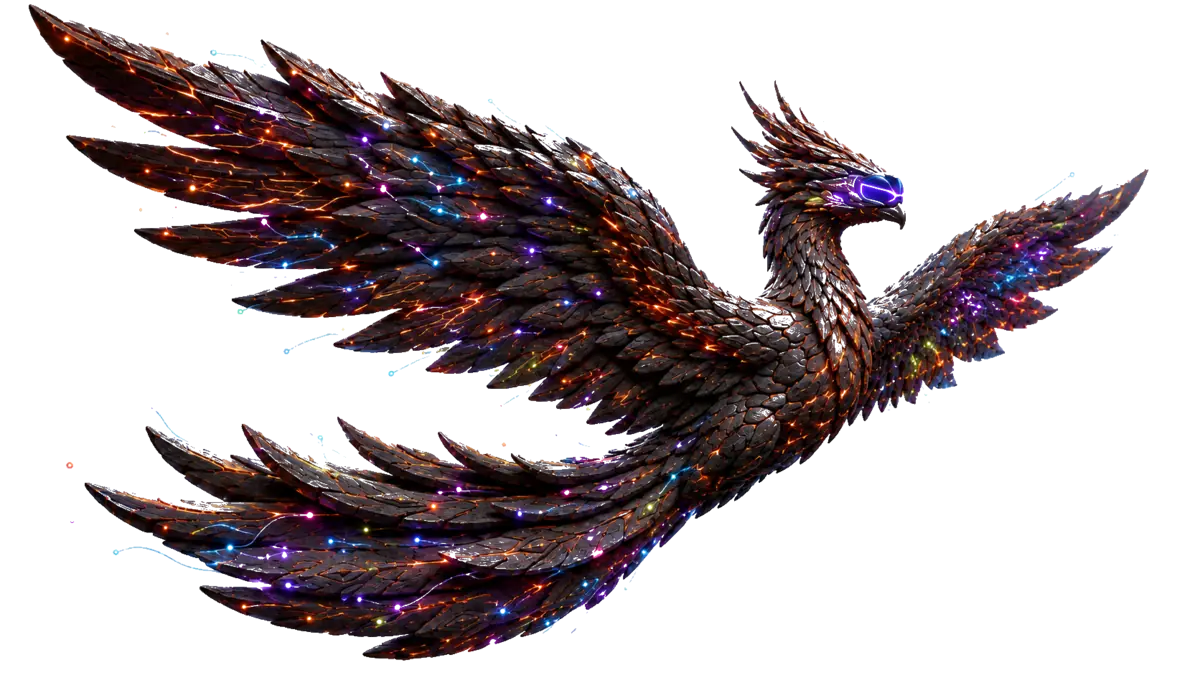
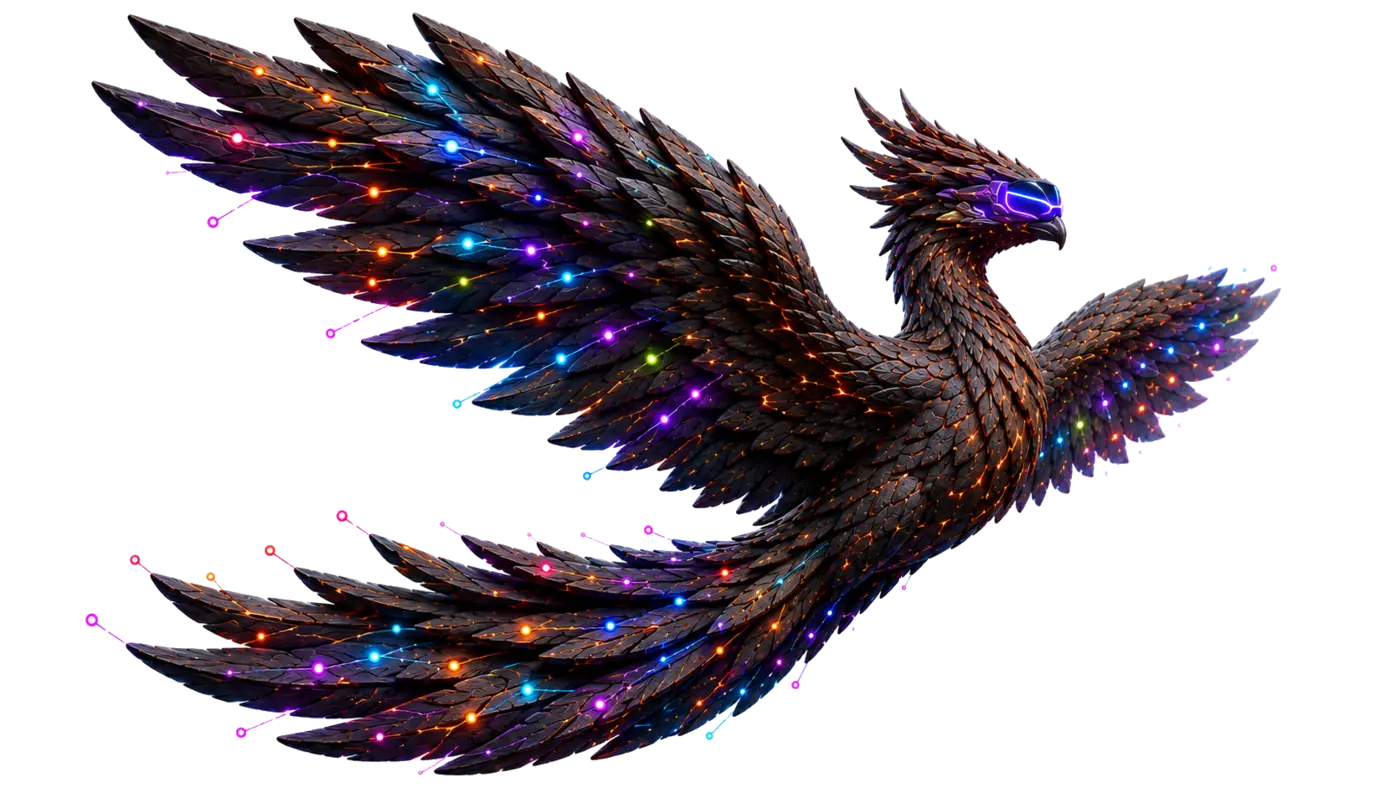
Refine phoenix artwork and add click-born signal bursts

diff --git a/src/App.tsx b/src/App.tsx
@@ -12,14 +12,14 @@ const powers=[
 function Reveal({children,className=''}:{children:React.ReactNode,className?:string}){const ref=useRef<HTMLDivElement>(null);useEffect(()=>{const el=ref.current;if(!el)return;const io=new IntersectionObserver(([entry])=>{if(entry.isIntersecting)el.classList.add('shown')},{threshold:.12});io.observe(el);return()=>io.disconnect()},[]);return <div ref={ref} className={`reveal ${className}`}>{children}</div>}
 function Phoenix({className='',variant='plain',priority=false}:{className?:string,variant?:string,priority?:boolean}){return <div className={`phoenix ${className} phoenix-${variant}`}><img src={variant==='vr'?'/ashes-phoenix-vr.webp':'/ashes-phoenix-hero.webp'} alt={variant==='vr'?'Ashes phoenix wearing a neon VR visor':'Ashes phoenix'} draggable={false} loading={priority?'eager':'lazy'} decoding="async" fetchPriority={priority?'high':'auto'}/></div>}
 function PowerPhoenix({mode}:{mode:string}){return <img className="power-phoenix" src={`/powers/${mode}.webp`} alt={`${mode} phoenix`} loading="lazy" decoding="async"/>}
-function SignalNetwork(){const canvasRef=useRef<HTMLCanvasElement>(null);useEffect(()=>{const canvas=canvasRef.current;if(!canvas)return;const context=canvas.getContext('2d',{alpha:true});if(!context)return;const colors=['#66ebf2','#ff62c7','#d8ff62','#ff875c','#ad77ff'];let width=0,height=0,frame=0,last=0,visible=true;const pointer={x:-9999,y:-9999};type Node={x:number,y:number,px:number,py:number,vx:number,vy:number,r:number,color:string,life:number,hot:boolean,curl:number};let nodes:Node[]=[];
-  const reset=(node?:Node)=>{const zone=Math.floor(Math.random()*4);let x:number,y:number,angle:number;if(zone===0){x=width*(.2+Math.random()*.31);y=height*(.17+Math.random()*.31);angle=Math.PI+(-.42+Math.random()*.84)}else if(zone===1){x=width*(.57+Math.random()*.25);y=height*(.22+Math.random()*.3);angle=-.42+Math.random()*.84}else if(zone===2){x=width*(.27+Math.random()*.3);y=height*(.56+Math.random()*.22);angle=Math.PI/2+(-.55+Math.random()*1.1)}else{x=width*(.46+Math.random()*.2);y=height*(.34+Math.random()*.25);angle=-.7+Math.random()*1.4}const speed=.78+Math.random()*1.2;const next={x,y,px:x,py:y,vx:Math.cos(angle)*speed,vy:Math.sin(angle)*speed,r:1+Math.random()*2.15,color:colors[Math.floor(Math.random()*colors.length)],life:.74+Math.random()*.26,hot:false,curl:(Math.random()-.5)*.018};if(node)Object.assign(node,next);else return next};
+function SignalNetwork(){const canvasRef=useRef<HTMLCanvasElement>(null);useEffect(()=>{const canvas=canvasRef.current;if(!canvas)return;const context=canvas.getContext('2d',{alpha:true});if(!context)return;const colors=['#66ebf2','#ff62c7','#d8ff62','#ff875c','#ad77ff'];let width=0,height=0,frame=0,last=0,visible=true;const pointer={x:-9999,y:-9999};type Node={x:number,y:number,px:number,py:number,vx:number,vy:number,r:number,color:string,life:number,hot:boolean,curl:number,burst:boolean};let nodes:Node[]=[];
+  const reset=(node?:Node)=>{const zone=Math.floor(Math.random()*4);let x:number,y:number,angle:number;if(zone===0){x=width*(.2+Math.random()*.31);y=height*(.17+Math.random()*.31);angle=Math.PI+(-.42+Math.random()*.84)}else if(zone===1){x=width*(.57+Math.random()*.25);y=height*(.22+Math.random()*.3);angle=-.42+Math.random()*.84}else if(zone===2){x=width*(.27+Math.random()*.3);y=height*(.56+Math.random()*.22);angle=Math.PI/2+(-.55+Math.random()*1.1)}else{x=width*(.46+Math.random()*.2);y=height*(.34+Math.random()*.25);angle=-.7+Math.random()*1.4}const speed=.78+Math.random()*1.2;const next={x,y,px:x,py:y,vx:Math.cos(angle)*speed,vy:Math.sin(angle)*speed,r:1+Math.random()*2.15,color:colors[Math.floor(Math.random()*colors.length)],life:.74+Math.random()*.26,hot:false,curl:(Math.random()-.5)*.018,burst:false};if(node)Object.assign(node,next);else return next};
   const resize=()=>{const rect=canvas.getBoundingClientRect();width=rect.width;height=rect.height;canvas.width=Math.round(width);canvas.height=Math.round(height);context.setTransform(1,0,0,1,0,0);nodes=Array.from({length:width<700?28:58},()=>reset() as Node)};resize();const observer=new ResizeObserver(resize);observer.observe(canvas);const visibility=new IntersectionObserver(([entry])=>{visible=entry.isIntersecting;if(visible&&!frame)frame=requestAnimationFrame(draw)},{rootMargin:'80px'});visibility.observe(canvas);
-  const move=(event:PointerEvent)=>{const rect=canvas.getBoundingClientRect();pointer.x=event.clientX-rect.left;pointer.y=event.clientY-rect.top};const leave=()=>{pointer.x=-9999;pointer.y=-9999};window.addEventListener('pointermove',move,{passive:true});window.addEventListener('pointerleave',leave);
-  function draw(time:number){if(!visible){frame=0;return}if(time-last<24){frame=requestAnimationFrame(draw);return}last=time;context.clearRect(0,0,width,height);for(const node of nodes){node.px=node.x;node.py=node.y;const oldVx=node.vx;node.vx-=node.vy*node.curl;node.vy+=oldVx*node.curl;node.x+=node.vx;node.y+=node.vy;node.life-=.003;const dx=node.x-pointer.x,dy=node.y-pointer.y;node.hot=dx*dx+dy*dy<9000;if(node.x< -40||node.x>width+40||node.y< -40||node.y>height+40||node.life<=0)reset(node)}
+  const move=(event:PointerEvent)=>{const rect=canvas.getBoundingClientRect();pointer.x=event.clientX-rect.left;pointer.y=event.clientY-rect.top};const leave=()=>{pointer.x=-9999;pointer.y=-9999};const ignite=(event:PointerEvent)=>{const rect=canvas.getBoundingClientRect();if(event.clientX<rect.left||event.clientX>rect.right||event.clientY<rect.top||event.clientY>rect.bottom)return;const x=event.clientX-rect.left,y=event.clientY-rect.top,count=width<700?9:15;for(let i=0;i<count;i++){const angle=Math.PI*2*i/count+(Math.random()-.5)*.35,speed=1.1+Math.random()*2.1;nodes.push({x,y,px:x,py:y,vx:Math.cos(angle)*speed,vy:Math.sin(angle)*speed,r:1.4+Math.random()*2.2,color:colors[i%colors.length],life:.72+Math.random()*.22,hot:true,curl:(Math.random()-.5)*.024,burst:true})}if(nodes.length>(width<700?50:92))nodes.splice(0,nodes.length-(width<700?50:92))};window.addEventListener('pointermove',move,{passive:true});window.addEventListener('pointerleave',leave);window.addEventListener('pointerdown',ignite,{passive:true});
+  function draw(time:number){if(!visible){frame=0;return}if(time-last<24){frame=requestAnimationFrame(draw);return}last=time;context.clearRect(0,0,width,height);for(const node of nodes){node.px=node.x;node.py=node.y;const oldVx=node.vx;node.vx-=node.vy*node.curl;node.vy+=oldVx*node.curl;node.x+=node.vx;node.y+=node.vy;node.life-=node.burst?.012:.003;const dx=node.x-pointer.x,dy=node.y-pointer.y;node.hot=node.burst||dx*dx+dy*dy<9000;if(!node.burst&&(node.x< -40||node.x>width+40||node.y< -40||node.y>height+40||node.life<=0))reset(node)}nodes=nodes.filter(node=>!node.burst||node.life>0);
     const reach=width<700?76:108,reachSq=reach*reach;context.globalCompositeOperation='lighter';for(let i=0;i<nodes.length;i++){const a=nodes[i];for(let j=i+1;j<Math.min(nodes.length,i+7);j++){const b=nodes[j],dx=a.x-b.x,dy=a.y-b.y,distanceSq=dx*dx+dy*dy;if(distanceSq<reachSq){const strength=1-Math.sqrt(distanceSq)/reach,hot=a.hot||b.hot;context.beginPath();context.moveTo(a.x,a.y);context.lineTo(b.x,b.y);context.strokeStyle=hot?`rgba(235,252,255,${strength*.75})`:`rgba(130,220,235,${strength*.2})`;context.lineWidth=hot?1.25:.55;context.stroke()}}}
     for(const node of nodes){const energy=Math.min(1,node.life*1.8);context.beginPath();context.moveTo(node.px,node.py);context.lineTo(node.x-node.vx*5,node.y-node.vy*5);context.strokeStyle=node.color;context.globalAlpha=node.hot?.85:energy*.38;context.lineWidth=node.hot?2.2:Math.max(.55,node.r*.52);context.stroke();context.beginPath();context.arc(node.x,node.y,node.hot?node.r*1.9:node.r,0,Math.PI*2);context.fillStyle=node.hot?'#fff':node.color;context.shadowColor=node.color;context.shadowBlur=node.hot?18:9;context.globalAlpha=node.hot?1:energy;context.fill();context.shadowBlur=0}context.globalCompositeOperation='source-over';context.globalAlpha=1;frame=requestAnimationFrame(draw)}
-  if(!matchMedia('(prefers-reduced-motion: reduce)').matches)frame=requestAnimationFrame(draw);return()=>{cancelAnimationFrame(frame);observer.disconnect();visibility.disconnect();window.removeEventListener('pointermove',move);window.removeEventListener('pointerleave',leave)}},[]);return <canvas ref={canvasRef} className="signal-network" aria-hidden="true"/>}
+  if(!matchMedia('(prefers-reduced-motion: reduce)').matches)frame=requestAnimationFrame(draw);return()=>{cancelAnimationFrame(frame);observer.disconnect();visibility.disconnect();window.removeEventListener('pointermove',move);window.removeEventListener('pointerleave',leave);window.removeEventListener('pointerdown',ignite)}},[]);return <canvas ref={canvasRef} className="signal-network" aria-hidden="true"/>}
 
 export default function App(){const [power,setPower]=useState(0);return <>
   <div className="grain"/><Nav/>
